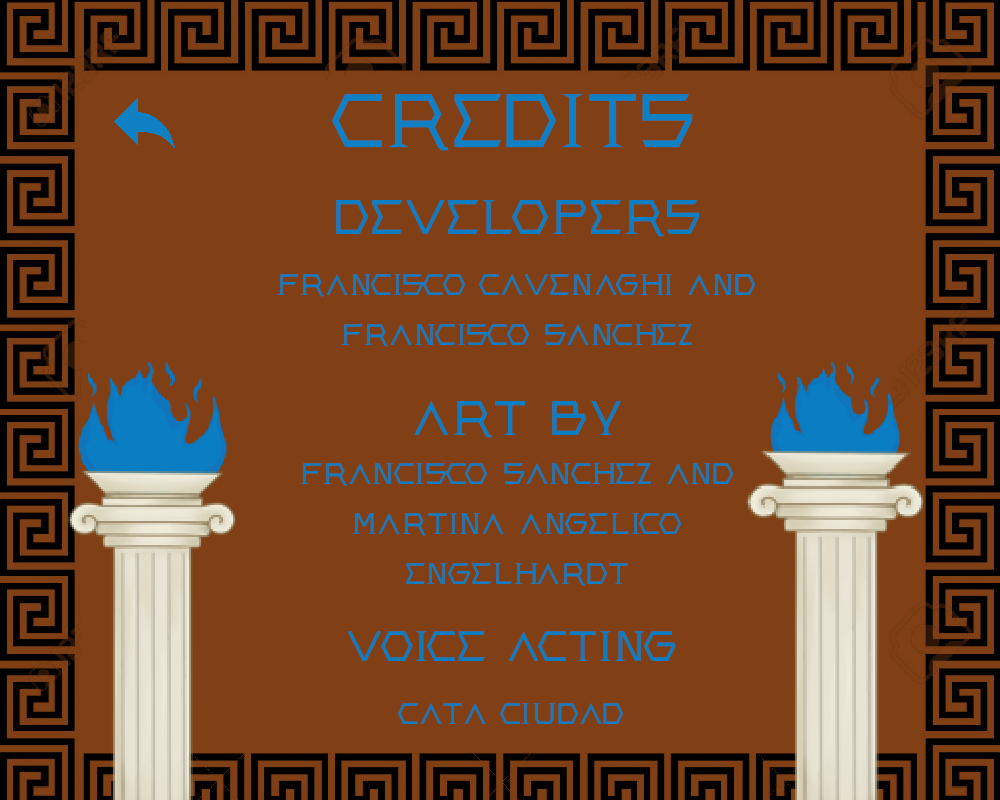
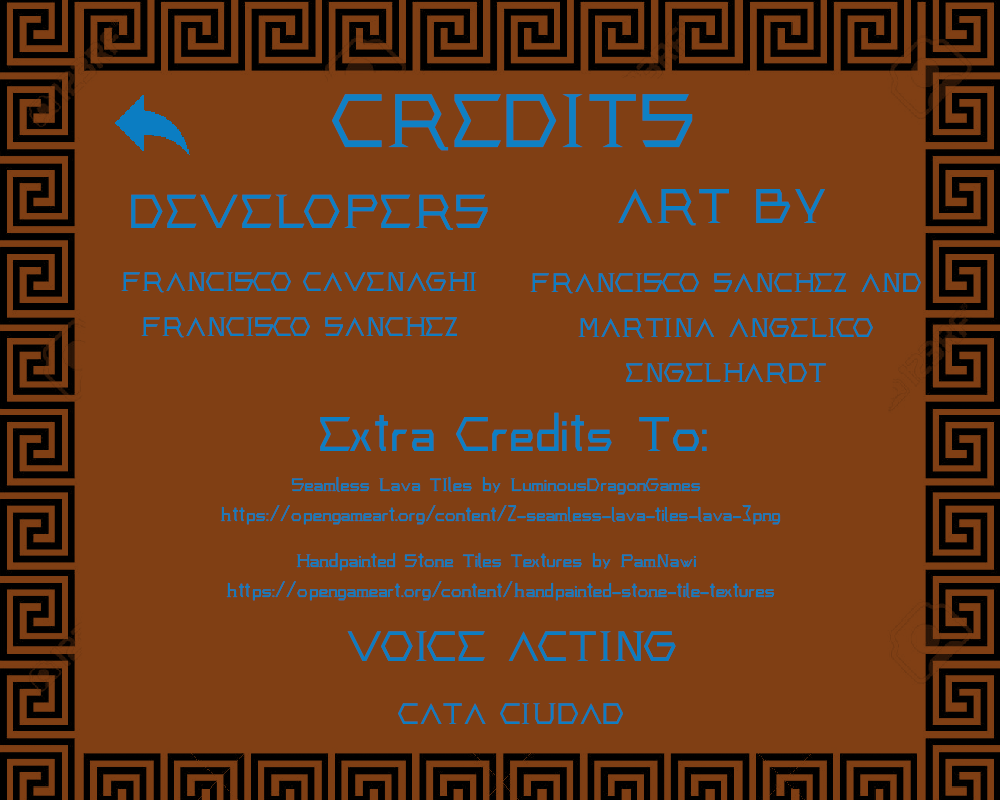
Added clock to supervise paused time.

Changed region(s): [[0.062, 0.3125, 0.93, 1.0], [0.124, 0.2188, 0.837, 0.3125], [0.124, 0.125, 0.186, 0.1875]]

diff --git a/SFML/Gameplay.cpp b/SFML/Gameplay.cpp
@@ -98,6 +98,13 @@ void Gameplay::InitGame(RenderWindow& window) {
     halfScreen.setTexture(unpausedTexture);
     halfScreen.setPosition(window.getSize().x / 2, 0);
 
+    font.loadFromFile("greek.ttf");
+
+    text.setFont(font);
+    text.setCharacterSize(40);
+    text.setFillColor({223, 154, 16, 255});
+    text.setPosition(window.getSize().x - 200, 120);
+
     spritePath0.setTexture(path);
     spritePath0.setTextureRect({ (int)150,(int)0,(int)path0.getSize().x+5,(int)path0.getSize().y });
     spritePath0.setPosition(path0.getPosition().x,0);
@@ -199,7 +206,7 @@ void Gameplay::UpdateGame(RenderWindow& window) {
         if (!player->GetIsAlive()) {
             gameOver = true;
         }
-        player->Update();
+        player->Update(isPaused);
         if (player->GetShadowAvailable()) {
             halfScreen.setTexture(unpausedTexture);
         }
@@ -227,6 +234,7 @@ void Gameplay::UpdateGame(RenderWindow& window) {
         }
     }
     else if (isPaused) {
+        player->Update(isPaused);
         if (player->GetShadowAvailable()) {
             halfScreen.setTexture(pausedTexture);
         }
@@ -243,6 +251,7 @@ void Gameplay::UpdateGame(RenderWindow& window) {
             halfScreen.setTexture(restartGreyTexture);
         }
     }
+    text.setString(to_string(player->GetPoints()));
 }
 
 void Gameplay::DrawGame(RenderWindow& window) {
@@ -282,8 +291,7 @@ void Gameplay::DrawGame(RenderWindow& window) {
         
     }
     window.draw(halfScreen);
-    menuButton->Draw(window);
-    resumeButton->Draw(window);
+    window.draw(text);
     window.display();
 }
 

diff --git a/SFML/Player.cpp b/SFML/Player.cpp
@@ -20,6 +20,8 @@ Player::Player(int lives, sf::RectangleShape collider, bool isAlive) {
 	sprite.setTextureRect({ 0,0,64,80 });
 	firstShadowStep = true;
 	shadowAvailable = true;
+	pausedTime = 0;
+	points = 0;
 }
 
 Player::~Player() {
@@ -107,18 +109,26 @@ void Player::ShadowStep() {
 		shadowClock.restart();
 		firstShadowStep = false;
 		shadowAvailable = false;
+		pausedTime = 0;
 	}
 	else if(shadowClock.getElapsedTime().asSeconds() > 8) {
 		SetIsShadow(!isShadow);
 		shadowAvailable = false;
 		shadowClock.restart();
+		pausedTime = 0;
 	}
 }
 
-void Player::Update() {
+void Player::Update(bool isPaused) {
+	if (!isPaused) {
+		pausedClock.restart();
+	}
+	if (pausedClock.getElapsedTime().asSeconds() > 0.3) {
+		pausedTime = pausedClock.getElapsedTime().asSeconds();
+	}
 	sprite.setPosition({ collider.getPosition().x, collider.getPosition().y });
 	spriteShadow.setPosition({ collider.getPosition().x, collider.getPosition().y });
-	if (isShadow && shadowClock.getElapsedTime().asSeconds() > 3) {
+	if (isShadow && shadowClock.getElapsedTime().asSeconds() - pausedTime > 3) {
 		SetIsShadow(!isShadow);
 	}
 	SetShadowAvailable();
@@ -141,7 +151,7 @@ int Player::GetPoints() {
 }
 
 void Player::SetShadowAvailable() {
-	if (shadowClock.getElapsedTime().asSeconds() > 8 || firstShadowStep) {
+	if (shadowClock.getElapsedTime().asSeconds() - pausedTime > 8 || firstShadowStep) {
 		shadowAvailable = true;
 	}
 }

diff --git a/SFML/Menu.cpp b/SFML/Menu.cpp
@@ -22,7 +22,7 @@ void Menu::Init(RenderWindow& window) {
 	playButton = new Button((float)window.getSize().x / 2- (window.getSize().x / 4)/2+10, window.getSize().y * 3 / 6, window.getSize().x / 4, 100);
 	creditsButton = new Button((float)window.getSize().x / 2 - (window.getSize().x / 4) / 2 + 10, (float)window.getSize().y * 4 / 6, (float)window.getSize().x / 4, 100);
 	quitButton = new Button((float)window.getSize().x / 2 - (window.getSize().x / 4) / 2 + 10, (float)window.getSize().y * 5 / 6-10, (float)window.getSize().x / 4, 100);
-	backButton = new Button((float)115, 95, 60, 60);
+	backButton = new Button((float)115, 95, 74, 60);
 }
 
 void Menu::Input(RenderWindow& window, Event& events) {
@@ -64,6 +64,7 @@ void Menu::Draw(RenderWindow& window) {
 	}
 	else {
 		window.draw(creditSprite);
+		backButton->Draw(window);
 	}
 	window.display();
 }

diff --git a/SFML/Player.h b/SFML/Player.h
@@ -14,11 +14,13 @@ private:
 	int positionX;
 	int positionY;
 	int shadowTime;	
+	float pausedTime;
 	Texture texture;
 	Texture textureShadow;
 	Sprite sprite;
 	Sprite spriteShadow;
 	Clock shadowClock;
+	Clock pausedClock;
 	bool firstShadowStep;
 	bool shadowAvailable;
 public:
@@ -40,7 +42,7 @@ public:
 	bool GetIsShadow();
 	void SetIsShadow(bool isShadow);
 	void ShadowStep();
-	void Update();
+	void Update(bool isPaused);
 	int GetPositionX();
 	int GetPositionY();
 	int GetPoints();

diff --git a/SFML/Coin.cpp b/SFML/Coin.cpp
@@ -10,7 +10,7 @@ Coin::~Coin() {
 
 void Coin::InCollision(Player* player) {
 	if(player->GetPositionX() == positionX && player->GetPositionY() == positionY && !isCollected){
-		player->SetPoints(1);
+		player->SetPoints(10);
 		isCollected = true;
 	}
 }

diff --git a/SFML/Gameplay.h b/SFML/Gameplay.h
@@ -55,8 +55,11 @@ private:
 	Sprite halfScreen;
 	vector<Object*> objects;
 	Clock clock;
+	Clock pausedClock;
 	Button* resumeButton;
 	Button* menuButton;
+	Font font;
+	Text text;
 public:
 	Gameplay();
 	~Gameplay();
